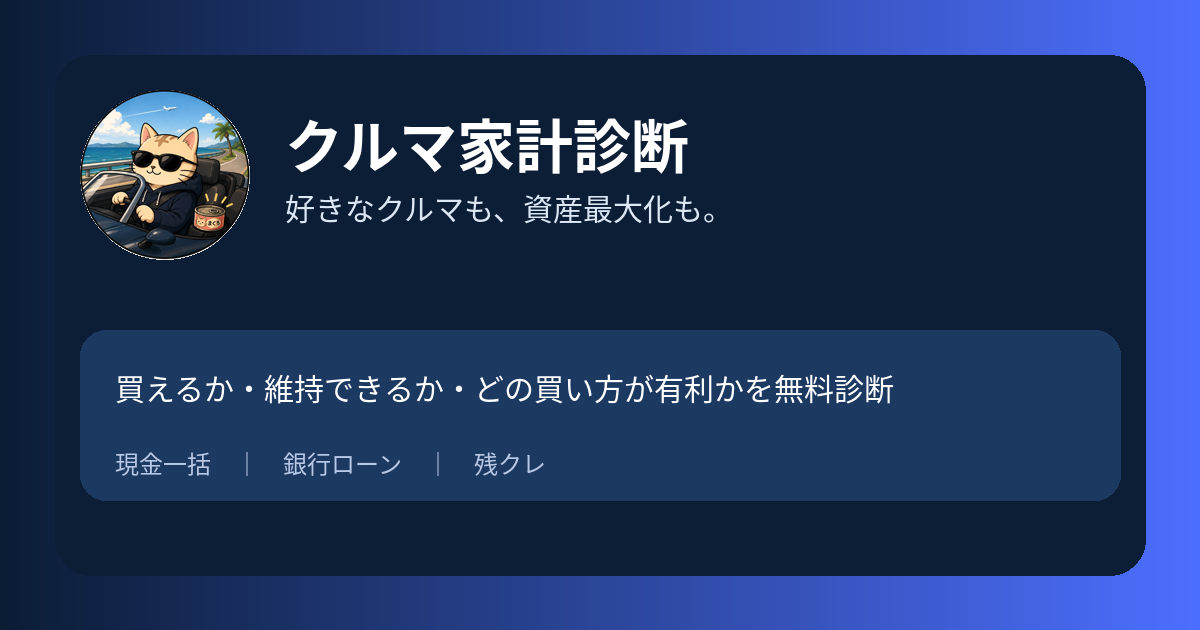
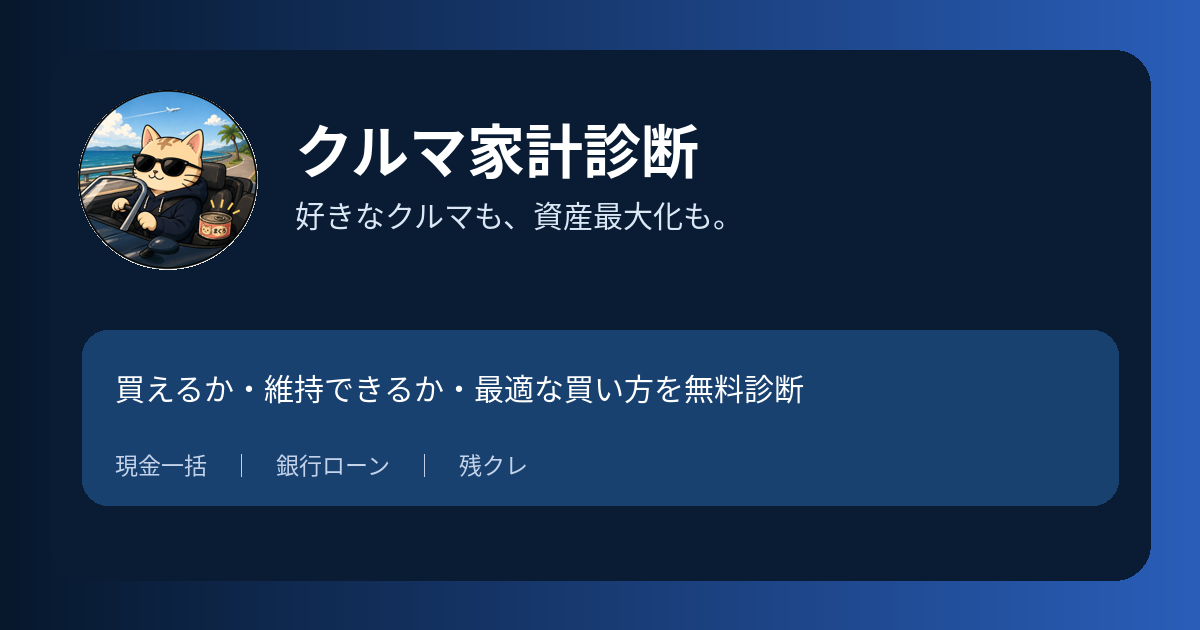
Add files via upload

diff --git a/index.html b/index.html
@@ -1,33 +1,9 @@
 <!doctype html>
 <html lang="ja">
 <head>
-<!-- Google tag (gtag.js) -->
-<script async src="https://www.googletagmanager.com/gtag/js?id=G-X7TYP0B7E6">
-// Ver1.1: Google Analytics custom events
-function trackEvent(name, params={}) {
-  if (typeof gtag === "function") gtag("event", name, params);
-}
-document.querySelectorAll(".js-start-diagnosis").forEach(el => {
-  el.addEventListener("click", () => trackEvent("start_diagnosis"));
-});
-document.querySelectorAll(".vehicle-card, .car-chip").forEach(el => {
-  el.addEventListener("click", () => trackEvent("select_car", {
-    car_name: el.dataset.name || ""
-  }));
-});
-const diagButton = document.getElementById("go");
-if (diagButton) {
-  diagButton.addEventListener("click", () => trackEvent("complete_diagnosis", {
-    car_name: document.getElementById("car")?.value || "",
-    diagnosis_mode: document.getElementById("mode")?.value || ""
-  }));
-}
-const copyResultBtnV11 = document.getElementById("copyResultBtn");
-if (copyResultBtnV11) copyResultBtnV11.addEventListener("click", () => trackEvent("copy_result"));
-const downloadResultBtnV11 = document.getElementById("downloadResultBtn");
-if (downloadResultBtnV11) downloadResultBtnV11.addEventListener("click", () => trackEvent("download_result"));
 
-</script>
+<!-- Google tag (gtag.js) -->
+<script async src="https://www.googletagmanager.com/gtag/js?id=G-X7TYP0B7E6"></script>
 <script>
   window.dataLayer = window.dataLayer || [];
   function gtag(){dataLayer.push(arguments);}
@@ -35,14 +11,13 @@ if (downloadResultBtnV11) downloadResultBtnV11.addEventListener("click", () => t
   gtag('config', 'G-X7TYP0B7E6');
 </script>
 
-<meta name="description" content="手取り・家計・車両価格・維持費を入力すると、欲しいクルマを維持できるか、現金一括・銀行ローン・残クレのどれが将来資産を残しやすいかを無料診断します。">
+<meta name="description" content="家計と欲しいクルマを入力すると、購入・維持できるか、現金一括・銀行ローン・残クレのどれが将来資産を残しやすいかを無料診断します。">
 <meta name="keywords" content="クルマ家計診断,車 買えるか,自動車ローン 比較,現金一括 銀行ローン,残クレ,車 維持費,資産形成">
 <meta name="author" content="きゃな｜資産形成とクルマ">
 <meta name="robots" content="index,follow,max-image-preview:large">
 <link rel="canonical" href="https://kuruma-kakei.vercel.app/">
 <link rel="icon" href="/favicon.png" type="image/png">
 <link rel="apple-touch-icon" href="/favicon.png">
-
 <meta property="og:type" content="website">
 <meta property="og:locale" content="ja_JP">
 <meta property="og:site_name" content="クルマ家計診断 by きゃな">
@@ -52,35 +27,22 @@ if (downloadResultBtnV11) downloadResultBtnV11.addEventListener("click", () => t
 <meta property="og:image" content="https://kuruma-kakei.vercel.app/og-image.png">
 <meta property="og:image:width" content="1200">
 <meta property="og:image:height" content="630">
-
 <meta name="twitter:card" content="summary_large_image">
 <meta name="twitter:title" content="クルマ家計診断｜好きなクルマも、資産最大化も。">
 <meta name="twitter:description" content="家計と欲しいクルマを入力し、現金一括・銀行ローン・残クレを比較。">
 <meta name="twitter:image" content="https://kuruma-kakei.vercel.app/og-image.png">
 <meta name="twitter:site" content="@Kyana_ZZ">
-
 <script type="application/ld+json">
 {
-  "@context": "https://schema.org",
-  "@type": "WebApplication",
-  "name": "クルマ家計診断",
-  "url": "https://kuruma-kakei.vercel.app/",
-  "applicationCategory": "FinanceApplication",
-  "operatingSystem": "Web",
-  "description": "家計とクルマの条件から購入可否、維持費、購入方法別の将来資産を試算する無料Webアプリ。",
-  "offers": {
-    "@type": "Offer",
-    "price": "0",
-    "priceCurrency": "JPY"
-  },
-  "author": {
-    "@type": "Person",
-    "name": "きゃな",
-    "sameAs": [
-      "https://note.com/kanash1226",
-      "https://x.com/Kyana_ZZ"
-    ]
-  }
+  "@context":"https://schema.org",
+  "@type":"WebApplication",
+  "name":"クルマ家計診断",
+  "url":"https://kuruma-kakei.vercel.app/",
+  "applicationCategory":"FinanceApplication",
+  "operatingSystem":"Web",
+  "description":"家計とクルマの条件から購入可否、維持費、購入方法別の将来資産を試算する無料Webアプリ。",
+  "offers":{"@type":"Offer","price":"0","priceCurrency":"JPY"},
+  "author":{"@type":"Person","name":"きゃな","sameAs":["https://note.com/kanash1226","https://x.com/Kyana_ZZ"]}
 }
 </script>
 
@@ -486,6 +448,35 @@ html[data-theme="dark"] .line-chart-wrap{background:linear-gradient(180deg,#0d1d
 @media(max-width:980px){.vehicle-gallery{grid-template-columns:1fr 1fr}}
 @media(max-width:650px){.vehicle-gallery{grid-template-columns:1fr}.share-actions{display:grid}.share-actions button{width:100%}}
 
+
+/* Ver1.2 visual and reliability overrides */
+:root{--v12-navy:#07182d;--v12-navy2:#123b70;--v12-blue:#566dff;--v12-cyan:#20bdd7;--v12-gold:#d8aa45}
+body{background:radial-gradient(circle at 8% 8%,rgba(86,109,255,.12),transparent 28%),radial-gradient(circle at 92% 18%,rgba(32,189,215,.10),transparent 30%),linear-gradient(180deg,#f7faff 0%,#eef3fa 55%,#f8fafc 100%)}
+.top{background:rgba(255,255,255,.92);box-shadow:0 8px 30px rgba(15,29,49,.06)}
+.hero{min-height:620px;padding:82px 0 70px;color:#fff;background:radial-gradient(circle at 84% 22%,rgba(86,109,255,.48),transparent 30%),radial-gradient(circle at 66% 76%,rgba(32,189,215,.20),transparent 30%),linear-gradient(135deg,#06162a 0%,#102f59 55%,#284f9a 100%)}
+.hero .lead{color:#d9e5f4}.hero h1{color:#fff;text-shadow:0 12px 34px rgba(0,0,0,.25)}
+.hero .eyebrow{color:#edf4ff;background:rgba(255,255,255,.12);border:1px solid rgba(255,255,255,.20);backdrop-filter:blur(12px)}
+.hero .quote{color:#fff;background:rgba(255,255,255,.10);border:1px solid rgba(255,255,255,.18);border-left:4px solid #8da4ff;box-shadow:none;backdrop-filter:blur(14px)}
+.hero .dark{color:#fff!important;background:linear-gradient(150deg,rgba(5,20,39,.96),rgba(26,66,119,.93))!important;border:1px solid rgba(255,255,255,.22)!important;box-shadow:0 28px 70px rgba(0,0,0,.28)!important}
+.hero .dark h2,.hero .dark b{color:#fff!important}.hero .dark .small{color:#cbd9ea!important}
+.hero .feature{padding:14px 15px;border-radius:16px;background:rgba(255,255,255,.08)!important;border:1px solid rgba(255,255,255,.10)}
+.hero .dot{color:#fff;background:linear-gradient(135deg,var(--v12-blue),var(--v12-cyan));box-shadow:0 10px 24px rgba(86,109,255,.30)}
+.cta,.sticky-mobile-cta a,button{background:linear-gradient(135deg,var(--v12-blue),#855eea);box-shadow:0 16px 34px rgba(86,109,255,.28)}
+.section{padding:70px 0}.section h2{letter-spacing:-.03em}
+.card{border-radius:24px;border:1px solid rgba(255,255,255,.84);box-shadow:0 16px 44px rgba(15,29,49,.09)}
+.mode-switch{box-shadow:0 12px 30px rgba(15,29,49,.07)}
+.panel-title{padding:12px 14px;border-radius:14px;background:linear-gradient(90deg,rgba(86,109,255,.10),transparent)}
+input,select{min-height:48px}
+.scorebox{background:linear-gradient(135deg,#f8fbff,#edf2ff);border:1px solid rgba(86,109,255,.18)}
+.comment{background:linear-gradient(135deg,#07182d,#164477);color:#fff}
+.result-hero{background:radial-gradient(circle at 88% 15%,rgba(255,255,255,.18),transparent 30%),linear-gradient(135deg,#07182d,#164477 58%,#566dff)}
+.reveal{opacity:1!important;transform:none!important}.reveal.show{opacity:1!important;transform:none!important}
+#diag{scroll-margin-top:90px}
+.v12-step{display:grid;grid-template-columns:repeat(3,1fr);gap:14px;margin:24px 0 4px}
+.v12-step>div{padding:18px;border-radius:18px;background:#fff;border:1px solid rgba(148,163,184,.24);box-shadow:0 12px 28px rgba(15,29,49,.06)}
+.v12-step strong{display:inline-grid;place-items:center;width:32px;height:32px;border-radius:50%;color:#fff;background:linear-gradient(135deg,var(--v12-blue),#855eea);margin-bottom:10px}
+@media(max-width:880px){.hero{min-height:auto;padding:54px 0 390px}.v12-step{grid-template-columns:1fr}}
+
 </style>
 </head>
 <body>
@@ -722,20 +713,10 @@ html[data-theme="dark"] .line-chart-wrap{background:linear-gradient(180deg,#0d1d
 </div>
 
 <footer><div class="wrap">
-  <div style="display:flex;justify-content:space-between;gap:20px;flex-wrap:wrap;align-items:flex-start">
-    <div style="max-width:760px">
-      <b style="color:#fff">クルマ家計診断 by きゃな</b>
-      <p>本サイトの診断結果は参考情報です。ローン審査、投資成果、将来の収入、金利、税金、リセール、維持費を保証するものではありません。契約前には金融機関・販売店・税理士等へご確認ください。</p>
-    </div>
-    <div style="display:flex;gap:14px;flex-wrap:wrap">
-      <a href="privacy.html" style="color:#dbe7f5">プライバシーポリシー</a>
-      <a href="contact.html" style="color:#dbe7f5">お問い合わせ</a>
-      <a href="https://note.com/kanash1226" target="_blank" rel="noopener noreferrer" style="color:#dbe7f5">note</a>
-      <a href="https://x.com/Kyana_ZZ" target="_blank" rel="noopener noreferrer" style="color:#dbe7f5">X</a>
-    </div>
-  </div>
-  <div style="margin-top:20px;border-top:1px solid rgba(255,255,255,.12);padding-top:16px">© 2026 クルマ家計診断 by きゃな</div>
-</div></footer>
+<div style="display:flex;justify-content:space-between;gap:20px;flex-wrap:wrap">
+<div style="max-width:760px"><b style="color:#fff">クルマ家計診断 by きゃな</b><p>診断結果は参考情報です。ローン審査、投資成果、将来の収入、金利、税金、リセール、維持費を保証するものではありません。</p></div>
+<div style="display:flex;gap:14px;flex-wrap:wrap"><a href="privacy.html" style="color:#dbe7f5">プライバシーポリシー</a><a href="contact.html" style="color:#dbe7f5">お問い合わせ</a><a href="https://note.com/kanash1226" target="_blank" rel="noopener noreferrer" style="color:#dbe7f5">note</a><a href="https://x.com/Kyana_ZZ" target="_blank" rel="noopener noreferrer" style="color:#dbe7f5">X</a></div>
+</div><div style="margin-top:18px;border-top:1px solid rgba(255,255,255,.12);padding-top:14px">© 2026 クルマ家計診断 by きゃな</div></div></footer>
 
 <script>
 const f=v=>`${new Intl.NumberFormat("ja-JP",{maximumFractionDigits:1}).format(v)}万円`;
@@ -1136,6 +1117,14 @@ document.querySelectorAll(".js-start-diagnosis").forEach(link=>{
     },650);
   });
 });
+
+
+// Ver1.2 analytics events
+function trackEvent(name, params={}){if(typeof gtag==="function")gtag("event",name,params)}
+document.querySelectorAll(".js-start-diagnosis").forEach(el=>el.addEventListener("click",()=>trackEvent("start_diagnosis")));
+document.querySelectorAll(".vehicle-card,.car-chip").forEach(el=>el.addEventListener("click",()=>trackEvent("select_car",{car_name:el.dataset.name||""})));
+const v12Go=document.getElementById("go");
+if(v12Go)v12Go.addEventListener("click",()=>trackEvent("complete_diagnosis",{car_name:document.getElementById("car")?.value||"",diagnosis_mode:document.getElementById("mode")?.value||""}));
 
 </script>
 <div class="sticky-mobile-cta"><a class="js-start-diagnosis" href="#diag">🚗 無料で診断する</a></div></body></html>

diff --git a/privacy.html b/privacy.html
@@ -1,20 +1,1 @@
-<!doctype html><html lang="ja"><head><meta charset="utf-8"><meta name="viewport" content="width=device-width,initial-scale=1">
-<title>プライバシーポリシー｜クルマ家計診断</title><meta name="robots" content="index,follow"><link rel="canonical" href="https://kuruma-kakei.vercel.app/privacy.html">
-<style>
-:root{--ink:#0f1d31;--muted:#697386;--line:#dce3ed;--blue:#4d6fff}
-*{box-sizing:border-box}body{margin:0;font-family:-apple-system,BlinkMacSystemFont,"Segoe UI","Noto Sans JP",sans-serif;background:#f4f7fb;color:var(--ink)}
-.wrap{max-width:860px;margin:auto;padding:30px 20px}.top{background:#0b1d35;color:#fff;padding:18px 0}.top a{color:#fff;text-decoration:none;font-weight:800}
-.card{background:#fff;border:1px solid var(--line);border-radius:22px;padding:28px;box-shadow:0 16px 40px rgba(15,29,49,.08)}
-h1{font-size:34px}h2{margin-top:30px;font-size:21px}p,li{line-height:1.85;color:#4f5d70}
-a{color:var(--blue)}footer{padding:30px 0;color:var(--muted);font-size:13px}
-</style>
-</head>
-<body><div class="top"><div class="wrap" style="padding-top:0;padding-bottom:0"><a href="/">← クルマ家計診断へ戻る</a></div></div>
-<main class="wrap"><div class="card"><h1>プライバシーポリシー</h1><p>クルマ家計診断（以下「本サイト」）は、利用者のプライバシーを尊重します。</p>
-<h2>アクセス解析</h2><p>本サイトではGoogle Analyticsを利用しています。Google AnalyticsはCookie等を用いて、閲覧ページ、利用環境、アクセス元などの情報を収集する場合があります。収集されるデータは匿名であり、個人を直接特定するものではありません。</p>
-<h2>入力情報</h2><p>診断フォームに入力された家計・資産・車両条件は、原則として利用者のブラウザ内で計算されます。本サイトは入力内容を独自のサーバーへ保存しません。</p>
-<h2>広告・アフィリエイト</h2><p>将来、本サイトでは第三者配信の広告サービスやアフィリエイトプログラムを利用する場合があります。広告配信事業者がCookieを使用することがあります。</p>
-<h2>免責事項</h2><p>本サイトの情報および診断結果は参考情報であり、金融・税務・法律・投資・ローン契約に関する助言ではありません。利用により生じた損害について、本サイトは責任を負いかねます。</p>
-<h2>外部リンク</h2><p>外部サイトへ移動した後の情報管理について、本サイトは責任を負いません。</p>
-<h2>改定</h2><p>本ポリシーは必要に応じて予告なく変更する場合があります。</p>
-<p>制定日：2026年7月16日</p></div></main><footer><div class="wrap">© 2026 クルマ家計診断 by きゃな</div></footer></body></html>
+<!doctype html><html lang="ja"><head><meta charset="utf-8"><meta name="viewport" content="width=device-width,initial-scale=1"><title>プライバシーポリシー｜クルマ家計診断</title><link rel="canonical" href="https://kuruma-kakei.vercel.app/privacy.html"><style>*{box-sizing:border-box}body{margin:0;font-family:-apple-system,BlinkMacSystemFont,"Segoe UI","Noto Sans JP",sans-serif;background:#f4f7fb;color:#0f1d31}.wrap{max-width:860px;margin:auto;padding:30px 20px}.top{background:#07182d;color:#fff;padding:18px 0}.top a{color:#fff;text-decoration:none;font-weight:800}.card{background:#fff;border:1px solid #dce3ed;border-radius:22px;padding:28px;box-shadow:0 16px 40px rgba(15,29,49,.08)}h1{font-size:34px}h2{margin-top:30px;font-size:21px}p,li{line-height:1.85;color:#4f5d70}a{color:#566dff}footer{padding:30px 0;color:#697386;font-size:13px}</style></head><body><div class="top"><div class="wrap" style="padding-top:0;padding-bottom:0"><a href="/">← クルマ家計診断へ戻る</a></div></div><main class="wrap"><div class="card"><h1>プライバシーポリシー</h1><p>本サイトは利用者のプライバシーを尊重します。</p><h2>アクセス解析</h2><p>Google Analyticsを利用し、匿名のアクセス情報を収集する場合があります。</p><h2>入力情報</h2><p>診断フォームの入力内容は原則としてブラウザ内で計算され、独自サーバーへ保存しません。</p><h2>広告・アフィリエイト</h2><p>将来、広告サービスやアフィリエイトプログラムを利用する場合があります。</p><h2>免責事項</h2><p>診断結果は参考情報であり、金融・税務・投資・ローン契約に関する助言ではありません。</p><p>制定日：2026年7月16日</p></div></main><footer><div class="wrap">© 2026 クルマ家計診断 by きゃな</div></footer></body></html>

diff --git a/contact.html b/contact.html
@@ -1,17 +1,1 @@
-<!doctype html><html lang="ja"><head><meta charset="utf-8"><meta name="viewport" content="width=device-width,initial-scale=1">
-<title>お問い合わせ｜クルマ家計診断</title><meta name="robots" content="index,follow"><link rel="canonical" href="https://kuruma-kakei.vercel.app/contact.html">
-<style>
-:root{--ink:#0f1d31;--muted:#697386;--line:#dce3ed;--blue:#4d6fff}
-*{box-sizing:border-box}body{margin:0;font-family:-apple-system,BlinkMacSystemFont,"Segoe UI","Noto Sans JP",sans-serif;background:#f4f7fb;color:var(--ink)}
-.wrap{max-width:860px;margin:auto;padding:30px 20px}.top{background:#0b1d35;color:#fff;padding:18px 0}.top a{color:#fff;text-decoration:none;font-weight:800}
-.card{background:#fff;border:1px solid var(--line);border-radius:22px;padding:28px;box-shadow:0 16px 40px rgba(15,29,49,.08)}
-h1{font-size:34px}h2{margin-top:30px;font-size:21px}p,li{line-height:1.85;color:#4f5d70}
-a{color:var(--blue)}footer{padding:30px 0;color:var(--muted);font-size:13px}
-</style>
-</head>
-<body><div class="top"><div class="wrap" style="padding-top:0;padding-bottom:0"><a href="/">← クルマ家計診断へ戻る</a></div></div>
-<main class="wrap"><div class="card"><h1>お問い合わせ</h1><p>サイトの不具合、改善案、掲載内容に関するご連絡は、以下のXアカウントまたはnoteからお願いします。</p>
-<h2>X</h2><p><a href="https://x.com/Kyana_ZZ" target="_blank" rel="noopener noreferrer">@Kyana_ZZ</a></p>
-<h2>note</h2><p><a href="https://note.com/kanash1226" target="_blank" rel="noopener noreferrer">きゃな｜資産形成とクルマ</a></p>
-<p>診断結果は参考値です。個別のローン審査・投資判断・税務相談には回答できない場合があります。</p></div></main>
-<footer><div class="wrap">© 2026 クルマ家計診断 by きゃな</div></footer></body></html>
+<!doctype html><html lang="ja"><head><meta charset="utf-8"><meta name="viewport" content="width=device-width,initial-scale=1"><title>お問い合わせ｜クルマ家計診断</title><link rel="canonical" href="https://kuruma-kakei.vercel.app/contact.html"><style>*{box-sizing:border-box}body{margin:0;font-family:-apple-system,BlinkMacSystemFont,"Segoe UI","Noto Sans JP",sans-serif;background:#f4f7fb;color:#0f1d31}.wrap{max-width:860px;margin:auto;padding:30px 20px}.top{background:#07182d;color:#fff;padding:18px 0}.top a{color:#fff;text-decoration:none;font-weight:800}.card{background:#fff;border:1px solid #dce3ed;border-radius:22px;padding:28px;box-shadow:0 16px 40px rgba(15,29,49,.08)}h1{font-size:34px}h2{margin-top:30px;font-size:21px}p,li{line-height:1.85;color:#4f5d70}a{color:#566dff}footer{padding:30px 0;color:#697386;font-size:13px}</style></head><body><div class="top"><div class="wrap" style="padding-top:0;padding-bottom:0"><a href="/">← クルマ家計診断へ戻る</a></div></div><main class="wrap"><div class="card"><h1>お問い合わせ</h1><p>サイトの不具合・改善案は、Xまたはnoteからご連絡ください。</p><h2>X</h2><p><a href="https://x.com/Kyana_ZZ" target="_blank">@Kyana_ZZ</a></p><h2>note</h2><p><a href="https://note.com/kanash1226" target="_blank">きゃな｜資産形成とクルマ</a></p></div></main><footer><div class="wrap">© 2026 クルマ家計診断 by きゃな</div></footer></body></html>

diff --git a/README.md b/README.md
@@ -1,19 +1,7 @@
-# クルマ家計診断 Ver1.1
+# クルマ家計診断 Ver1.2
 
-公開URL: https://kuruma-kakei.vercel.app/
-
-追加・修正内容:
-- Google Analytics（G-X7TYP0B7E6）を組み込み
-- Google Analyticsカスタムイベント
-- sitemap.xml
-- robots.txt
-- SEO title / description / canonical
-- OGP / Xカード
-- favicon / Apple Touch Icon
-- 構造化データ（WebApplication）
-- プライバシーポリシー
-- お問い合わせページ
-- 免責事項とフッター導線
-- 「無料で診断する」ボタン修正版を継承
-
-GitHubへはZIPではなく、解凍後のファイルをすべてリポジトリ直下へ上書きアップロードしてください。
+- 無料で診断するボタンと診断フォームを復旧
+- JavaScript構文チェック済み
+- 白背景・白文字の視認性問題を修正
+- トップ・カード・3ステップ説明を再デザイン
+- GA、SEO、OGP、favicon、sitemap、robots、privacy、contactを維持